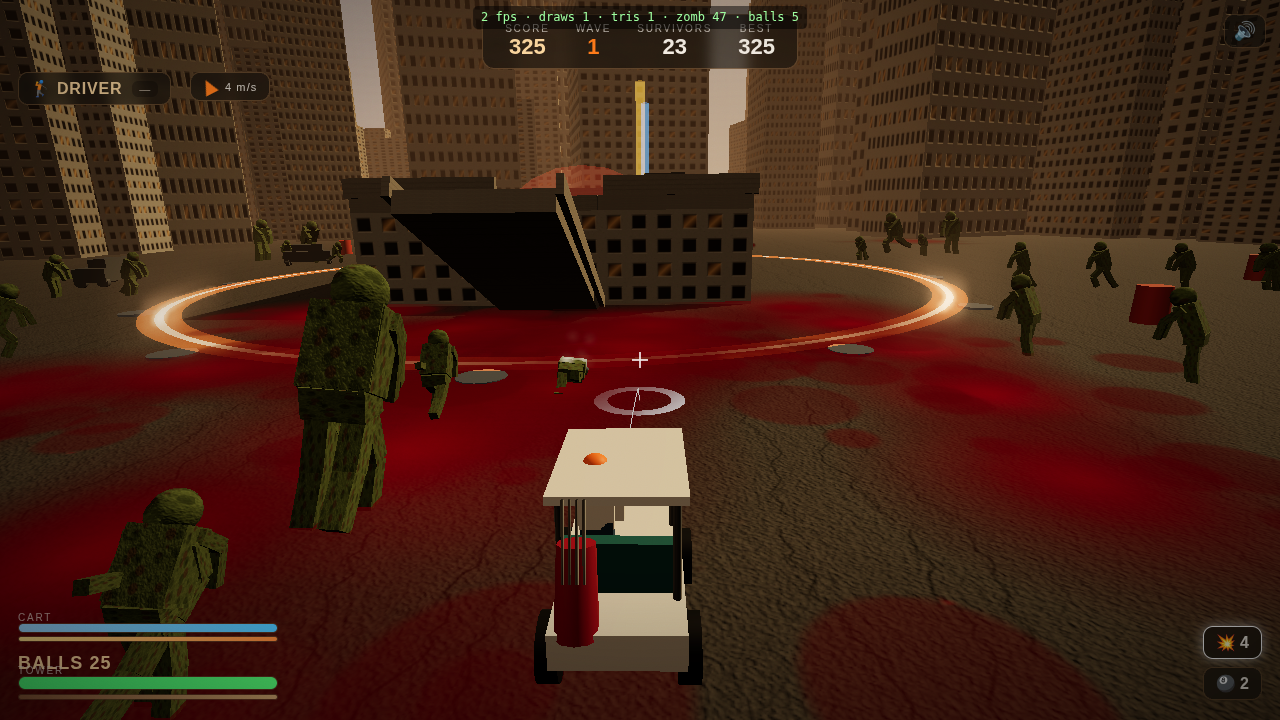
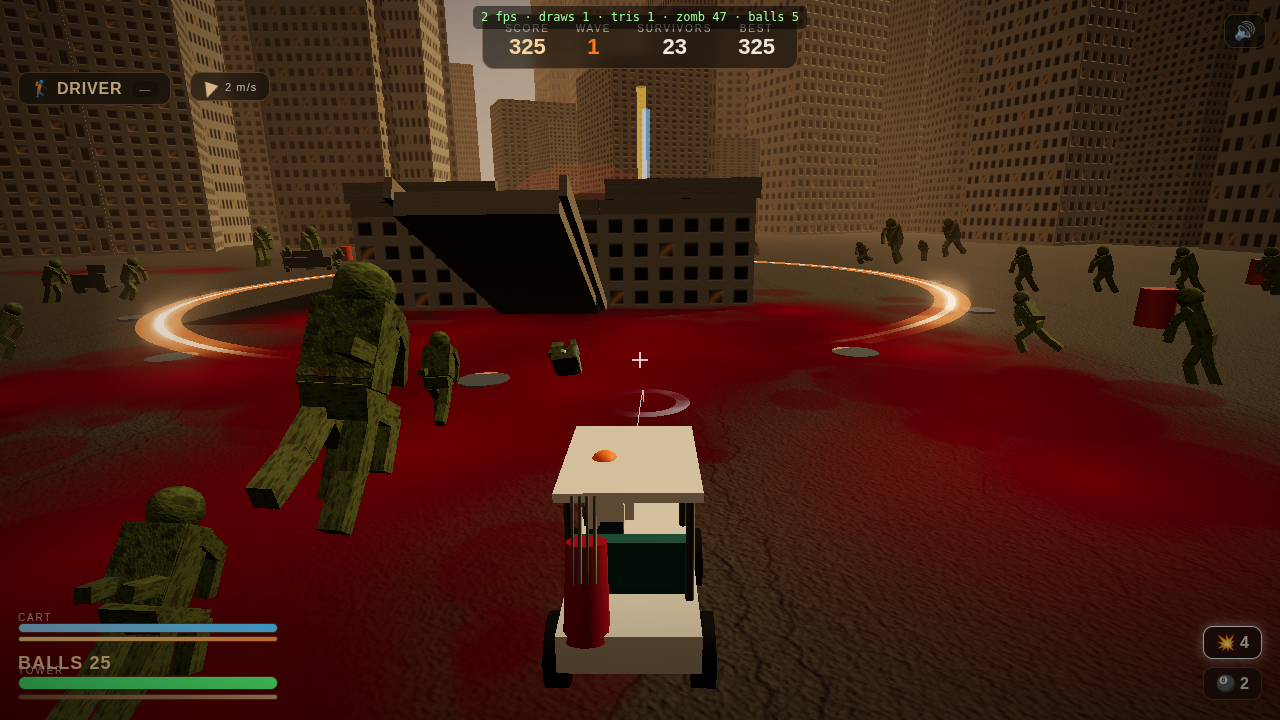
v3-B: realistic limb loss — exposed bone stubs + heavier gore
- new bone-stub InstancedMesh (1 draw call): ivory tapered stumps at severed wounds
  (neck / shoulder / elbow / knee), placed from the FK joint frames during dismember ragdoll
- whole-arm severs now take the forearm with them (no floating forearm)
- arterial spurt (directional blood jet) from the stump on dismember; gorier burst
- denser blood (particleCap 560), more chunks (cap 80, 3/kill), longer-lasting decals,
  more flying limbs (maxDebris 84); 1-3 limbs per dismember
- verify: boneStubsVisible>0 after a bazu cluster kill; draws 88, no NaN

Claude-Session: https://claude.ai/code/session_01Mg4jfxrjoLk6LwHjJKuzM6

diff --git a/public/js/zombies.js b/public/js/zombies.js
@@ -48,6 +48,16 @@ export class Zombies {
       return m;
     });
 
+    // ---- exposed-bone stubs (1 draw call): up to 5 wound stumps per zombie
+    //   slots: 0=neck, 1=L-arm, 2=R-arm, 3=L-leg, 4=R-leg. Shown only where a limb is severed.
+    this.STUBS = 5;
+    const gBone = new THREE.CylinderGeometry(CONFIG.gore.stubR0, CONFIG.gore.stubR1, CONFIG.gore.stubLen, 6);
+    const boneMat = new THREE.MeshStandardMaterial({ color: CONFIG.gore.boneColor, roughness: 0.7, metalness: 0.0 });
+    this.boneMesh = new THREE.InstancedMesh(gBone, boneMat, this.max * this.STUBS);
+    this.boneMesh.frustumCulled = false; this.boneMesh.castShadow = false; this.boneMesh.instanceMatrix.setUsage(THREE.DynamicDrawUsage);
+    scene.add(this.boneMesh);
+    this._bonesDirty = false;
+
     // ---- debris pool (one instanced mesh) ----
     const gChunk = new THREE.BoxGeometry(0.5, 0.5, 0.5);
     this.debrisMesh = new THREE.InstancedMesh(gChunk, mat, CONFIG.maxDebris);
@@ -76,6 +86,9 @@ export class Zombies {
     this._m = new THREE.Matrix4(); this._mRoot = new THREE.Matrix4(); this._mJoint = new THREE.Matrix4();
     this._mShL = new THREE.Matrix4(); this._mShR = new THREE.Matrix4(); this._mHipL = new THREE.Matrix4();
     this._mHipR = new THREE.Matrix4(); this._mLocal = new THREE.Matrix4();
+    // kept joint frames for bone-stub placement
+    this._mNeck = new THREE.Matrix4(); this._mElbowL = new THREE.Matrix4(); this._mElbowR = new THREE.Matrix4();
+    this._mKneeL = new THREE.Matrix4(); this._mKneeR = new THREE.Matrix4();
     this._q = new THREE.Quaternion(); this._e = new THREE.Euler(); this._v = new THREE.Vector3(); this._sv = new THREE.Vector3();
     this._col = new THREE.Color(); this._p = new THREE.Vector3();
     this._hidden = new THREE.Matrix4().makeScale(0, 0, 0);
@@ -98,11 +111,13 @@ export class Zombies {
     for (const d of this.debris) { d.active = false; }
     for (let i = 0; i < CONFIG.maxDebris; i++) this.debrisMesh.setMatrixAt(i, this._hidden);
     this._flush();
+    this.boneMesh.instanceMatrix.needsUpdate = true; this._bonesDirty = false;
     this.debrisMesh.instanceMatrix.needsUpdate = true;
     this.waveActive = false; this.toSpawn = 0;
   }
 
-  _hideZombie(i) { for (let s = 0; s < 11; s++) this.parts[s].setMatrixAt(i, this._hidden); }
+  _hideZombie(i) { for (let s = 0; s < 11; s++) this.parts[s].setMatrixAt(i, this._hidden); this._hideBones(i); }
+  _hideBones(i) { const b = i * this.STUBS; for (let k = 0; k < this.STUBS; k++) this.boneMesh.setMatrixAt(b + k, this._hidden); this._bonesDirty = true; }
   _flush() { for (let s = 0; s < 11; s++) this.parts[s].instanceMatrix.needsUpdate = true; }
 
   startWave(wave) {
@@ -140,6 +155,7 @@ export class Zombies {
     z.phase = this.rng() * Math.PI * 2;
     z.yaw = Math.atan2(-z.x, -z.zz);
     const i = this.z.indexOf(z);
+    this._hideBones(i);   // fresh body: no severed limbs
     const v = 0.85 + this.rng() * 0.25;
     this._col.setRGB(t.tintR * v, t.tintG * v, t.tintB * v);
     for (let s = 0; s < 11; s++) this.parts[s].setColorAt(i, this._col);
@@ -234,7 +250,7 @@ export class Zombies {
     const along = dx * Math.sin(z.yaw) + dz * Math.cos(z.yaw);
     r.angVel = (along >= 0 ? 1 : -1) * (2.2 + imp * 0.15) * (opts.flat ? 1.8 : 1);
     z.limbLag.fill(0); z.limbVel.fill(0);
-    if (opts.dismember) this._dismember(z, dx, dz, opts.flat ? 2 : 1 + (this.rng() < 0.5 ? 1 : 0));
+    if (opts.dismember) this._dismember(z, dx, dz, opts.flat ? 3 : 1 + (this.rng() < 0.6 ? 1 : 0) + (this.rng() < 0.25 ? 1 : 0));
   }
 
   _dismember(z, dx, dz, count) {
@@ -244,6 +260,9 @@ export class Zombies {
       const slot = leaves[k]; const bit = 1 << slot;
       if (z.detach & bit) continue;
       z.detach |= bit; done++;
+      // a whole-arm sever takes the forearm with it (no floating forearm)
+      if (slot === UARML) z.detach |= (1 << LARML);
+      if (slot === UARMR) z.detach |= (1 << LARMR);
       const d = this.debris.find((x) => !x.active);
       if (!d) continue;
       d.active = true; d.s = CONFIG.gore.chunkScale * z.scale * (slot === HEAD ? 1.0 : 1.4);
@@ -254,7 +273,9 @@ export class Zombies {
       d.rx = d.ry = d.rz = 0; d.life = CONFIG.ragdollLife + this.rng();
       this.ctx.gore?.chunk(this._p.set(d.x, d.y, d.z), d.vx, d.vy, d.vz);
     }
-    this.ctx.gore?.burst(this._p.set(z.x, 2.2 * z.scale, z.zz), 1.6, dx, dz);
+    // heavy wound: a thick blood burst + an arterial spurt from the stump
+    this.ctx.gore?.burst(this._p.set(z.x, 2.2 * z.scale, z.zz), 2.2, dx, dz);
+    this.ctx.gore?.spurt?.(this._p.set(z.x, 2.4 * z.scale, z.zz), dx, dz, 1.4);
   }
 
   // ---------- animation ----------
@@ -316,14 +337,30 @@ export class Zombies {
     this._setPart(i, detach, PELVIS, this._mRoot);
     this._lm(0, 0.15, 0, P.spineBend, 0, 0); this._mJoint.multiplyMatrices(this._mRoot, this._mLocal); this._setPart(i, detach, TORSO, this._mJoint);
     this._lm(0, 1.55, 0, P.headPitch, P.headYaw, 0); this._m.multiplyMatrices(this._mJoint, this._mLocal); this._setPart(i, detach, HEAD, this._m);
+    if (detach) this._mNeck.copy(this._m);
     this._lm(0.62, 1.35, 0, P.shLp, 0, P.shLr); this._mShL.multiplyMatrices(this._mJoint, this._mLocal); this._setPart(i, detach, UARML, this._mShL);
     this._lm(0, -0.95, 0, P.elbowL, 0, 0); this._m.multiplyMatrices(this._mShL, this._mLocal); this._setPart(i, detach, LARML, this._m);
+    if (detach) this._mElbowL.copy(this._m);
     this._lm(-0.62, 1.35, 0, P.shRp, 0, P.shRr); this._mShR.multiplyMatrices(this._mJoint, this._mLocal); this._setPart(i, detach, UARMR, this._mShR);
     this._lm(0, -0.95, 0, P.elbowR, 0, 0); this._m.multiplyMatrices(this._mShR, this._mLocal); this._setPart(i, detach, LARMR, this._m);
+    if (detach) this._mElbowR.copy(this._m);
     this._lm(0.34, -0.20, 0, P.hipLp, 0, 0); this._mHipL.multiplyMatrices(this._mRoot, this._mLocal); this._setPart(i, detach, ULEGL, this._mHipL);
     this._lm(0, -1.05, 0, P.kneeL, 0, 0); this._m.multiplyMatrices(this._mHipL, this._mLocal); this._setPart(i, detach, LLEGL, this._m);
+    if (detach) this._mKneeL.copy(this._m);
     this._lm(-0.34, -0.20, 0, P.hipRp, 0, 0); this._mHipR.multiplyMatrices(this._mRoot, this._mLocal); this._setPart(i, detach, ULEGR, this._mHipR);
     this._lm(0, -1.05, 0, P.kneeR, 0, 0); this._m.multiplyMatrices(this._mHipR, this._mLocal); this._setPart(i, detach, LLEGR, this._m);
+    if (detach) { this._mKneeR.copy(this._m); this._writeStubs(i, detach); }
+  }
+
+  // place an exposed-bone stub at each severed-limb wound (neck/shoulder/elbow/knee)
+  _writeStubs(i, detach) {
+    const b = i * this.STUBS, B = this.boneMesh, hid = this._hidden;
+    B.setMatrixAt(b + 0, (detach & (1 << HEAD)) ? this._mNeck : hid);
+    B.setMatrixAt(b + 1, (detach & (1 << UARML)) ? this._mShL : (detach & (1 << LARML)) ? this._mElbowL : hid);
+    B.setMatrixAt(b + 2, (detach & (1 << UARMR)) ? this._mShR : (detach & (1 << LARMR)) ? this._mElbowR : hid);
+    B.setMatrixAt(b + 3, (detach & (1 << LLEGL)) ? this._mKneeL : hid);
+    B.setMatrixAt(b + 4, (detach & (1 << LLEGR)) ? this._mKneeR : hid);
+    this._bonesDirty = true;
   }
   _lm(ox, oy, oz, rx, ry, rz) {
     this._e.set(rx, ry, rz); this._q.setFromEuler(this._e); this._v.set(ox, oy, oz);
@@ -412,6 +449,7 @@ export class Zombies {
       }
     }
     this._flush();
+    if (this._bonesDirty) { this.boneMesh.instanceMatrix.needsUpdate = true; this._bonesDirty = false; }
     this._debrisStep(dt);
 
     if (attacking > 0) {

diff --git a/public/js/config.js b/public/js/config.js
@@ -156,7 +156,7 @@ export const CONFIG = {
   maxRagdolls: 18,
   ragdollSettle: 1.6,
   ragdollFade: 1.2,
-  maxDebris: 60,
+  maxDebris: 84,
   ballDamage: 1,
   explosionDamage: 5,
   runoverDamage: 4,
@@ -186,13 +186,15 @@ export const CONFIG = {
   crateLife: 24,
   crateCollectRadius: 4.2,
 
-  // ---- Gore ----
+  // ---- Gore (v3: heavier — denser blood, more chunks, exposed bone, longer decals) ----
   gore: {
-    particleCap: 360, particleSize: 1.1, bloodColor: 0x7a0a0a, groundY: 0.06, dropSplatChance: 0.04,
-    burstBase: 9, burstSpeed: 16, decalRes: 1024, decalWorldSize: 220, decalY: 0.05,
-    splatBaseRadiusPx: 23, inkFadeThreshold: 70, fadeInterval: 0.8, fadeAlpha: 0.04,
-    chunkCap: 48, chunkScale: 0.5, chunkSpeed: 7, chunkLife: 2.2, chunkGroundY: 0.32,
-    chunkColor: 0x8c1414, chunksPerKill: 2,
+    particleCap: 560, particleSize: 1.15, bloodColor: 0x7a0a0a, groundY: 0.06, dropSplatChance: 0.06,
+    burstBase: 13, burstSpeed: 18, decalRes: 1024, decalWorldSize: 220, decalY: 0.05,
+    splatBaseRadiusPx: 26, inkFadeThreshold: 130, fadeInterval: 1.0, fadeAlpha: 0.035,
+    chunkCap: 80, chunkScale: 0.5, chunkSpeed: 8, chunkLife: 2.6, chunkGroundY: 0.32,
+    chunkColor: 0x8c1414, chunksPerKill: 3,
+    // arterial spurt from a fresh stump + exposed bone stub colour/size
+    spurtN: 14, spurtSpeed: 12, boneColor: 0xe9e3d2, stubLen: 0.52, stubR0: 0.10, stubR1: 0.19,
   },
 
   // ---- Survivors / tower-defense ----

diff --git a/public/js/gore.js b/public/js/gore.js
@@ -105,6 +105,21 @@ export class Gore {
   splat(pos, size = 1) { this.splatXZ(pos.x, pos.z, size); }
   dropSplat(pos) { if (Math.random() < 0.4) this.splatXZ(pos.x, pos.z, 0.3); }
 
+  // arterial gush from a fresh stump: a tight upward+directional jet of dark blood
+  spurt(pos, dx = 0, dz = 0, amount = 1) {
+    const n = Math.round(G.spurtN * Math.min(2, amount));
+    const m = Math.hypot(dx, dz) || 1; const ndx = dx / m, ndz = dz / m;
+    const sp = G.spurtSpeed * (0.7 + amount * 0.3);
+    for (let k = 0; k < n; k++) {
+      const i = this.cursor; this.cursor = (this.cursor + 1) % this.cap;
+      this.pos[i * 3] = pos.x; this.pos[i * 3 + 1] = pos.y; this.pos[i * 3 + 2] = pos.z;
+      const jx = ndx + (Math.random() - 0.5) * 0.5, jz = ndz + (Math.random() - 0.5) * 0.5;
+      const s = sp * (0.6 + Math.random() * 0.8);
+      this.vel[i * 3] = jx * s; this.vel[i * 3 + 1] = 5 + Math.random() * s * 0.8; this.vel[i * 3 + 2] = jz * s;
+      this.life[i] = this.maxLife[i] = 0.6 * (0.7 + Math.random() * 0.6);
+    }
+  }
+
   splatXZ(wx, wz, size) {
     if (wx < -this.half || wx > this.half || wz < -this.half || wz > this.half) return;
     const u = (wx + this.half) / this.S, v = (wz + this.half) / this.S;
